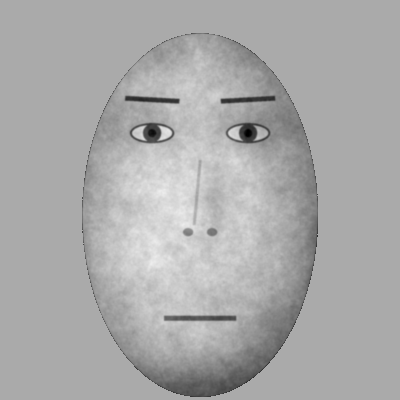
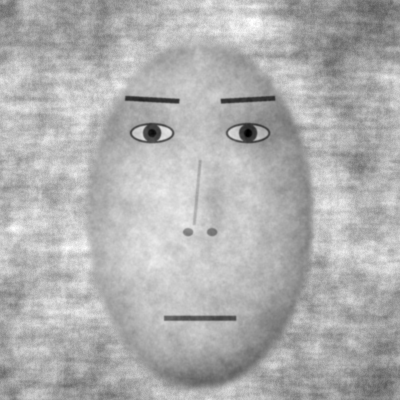
015_textured_examples_at_full_visibility.md

diff --git a/tests/core/textured-examples.test.ts b/tests/core/textured-examples.test.ts
@@ -1,0 +1,47 @@
+import { readFileSync } from 'node:fs';
+import { describe, expect, it } from 'vitest';
+import { buildSequence } from '../../src/core/build';
+import { Prng } from '../../src/core/prng';
+import { circularTarget, DEMO_PEAK, noisePhase, riseFrame } from '../../src/core/rise';
+import { spectrum } from '../../src/core/spectrum';
+import { mean, rms } from '../../src/core/stats';
+import { demoFaces } from '../helpers/images';
+
+const entries: { file: string }[] = JSON.parse(readFileSync(new URL('../../public/examples/manifest.json', import.meta.url), 'utf8'));
+const names = entries.map(e => e.file.replace(/\.png$/, ''));
+const size = 128;
+const images = demoFaces(names, size);
+const surround = (frame: Float64Array) => frame.filter((_, i) => i % size < 8 || i % size >= size - 8);
+
+describe('public face examples retain a textured surround at full visibility', () => {
+  it('reaches weight 1 and keeps texture in all 15 inputs and through the full slider range', () => {
+    expect(DEMO_PEAK).toBe(1);
+    const prng = new Prng(20191001);
+    for (const [index, image] of images.entries()) {
+      const { amplitude, phase } = spectrum(image, size, size);
+      const target = circularTarget(phase, noisePhase(prng.uniformArray(image.length), size, size), prng.uniformArray(image.length), size, size);
+      for (let step = 0; step <= 20; step++) {
+        const weight = step / 20;
+        const frame = riseFrame(amplitude, phase, target, weight, size, size);
+        expect(rms(surround(frame)), `${names[index]}, weight ${weight}`).toBeGreaterThan(0.02);
+        expect(mean(frame)).toBeCloseTo(mean(image), 10);
+        expect(rms(frame)).toBeCloseTo(rms(image), 10);
+        if (weight === 1) expect(Math.max(...frame.map((v, i) => Math.abs(v - image[i])))).toBeLessThan(1e-10);
+      }
+    }
+  });
+
+  it('retains surround texture at the full-restoration peak of every sequence image', () => {
+    const built = buildSequence({
+      images, size, method: 'circular', normalise: null, seed: 1, fixation: false,
+      params: { fps: 60, tagHz: 2, baselineS: 0, stimulusS: names.length / 2, postS: 0, cyclesPerImage: 1, peak: 1 },
+    });
+    const peaks = built.rows.filter(r => r.weight === 1);
+    expect(peaks.length).toBe(15);
+    for (const row of peaks) {
+      const pixels = built.frames.subarray(row.frame * size * size, (row.frame + 1) * size * size);
+      expect(rms(surround(Float64Array.from(pixels, v => v / 255)))).toBeGreaterThan(0.02);
+      expect(built.stats.similarity[row.frame]).toBeGreaterThan(0.99);
+    }
+  });
+});

diff --git a/index.html b/index.html
@@ -49,7 +49,7 @@
                   <button type="button" class="button" id="one-noise">New noise</button>
                   <span class="muted">Seed <code id="one-seed"></code></span>
                 </div>
-                <p class="muted small">Play cycles from noise to weight 0.85 and back, keeping scrambled texture around the face. Move the slider to 1 to inspect the fully restored source.</p>
+                <p class="muted small">Play cycles from noise to the full image (1) and back. The face examples include a textured noise surround, which remains visible at weight 1.</p>
                 <fieldset class="control choice">
                   <legend>Method</legend>
                   <label><input type="radio" name="one-method" value="circular" checked /> RISE</label>
@@ -82,7 +82,7 @@
           <div class="tab-panel" role="tabpanel" id="panel-sequence" aria-labelledby="tab-sequence" hidden>
             <p class="prose">
               A sequence shows each image emerging from noise and dissolving into it once per cycle, at a fixed rate,
-              between a stretch of noise before and after. The default keeps residual phase noise visible at the peak.
+              between a stretch of noise before and after. The face examples retain a noise surround even at full visibility.
               Whole-image statistics are held constant before 8-bit rounding and clipping.
             </p>
 
@@ -150,7 +150,7 @@
                   <label class="control"><span>Noise after (s) <span class="tag" data-tag="paper">paper</span></span>
                     <input type="number" name="postS" min="0" step="any" /><span class="hint" data-hint="post"></span></label>
                   <label class="control"><span>Peak weight (1 = the full image) <span class="tag" data-tag="project">this project</span></span>
-                    <input type="number" name="peak" min="0.05" max="1" step="0.05" /><span class="hint">0.85 keeps the background scrambled at maximum visibility; 1 restores the source background.</span></label>
+                    <input type="number" name="peak" min="0.05" max="1" step="0.05" /><span class="hint">1 reaches the prepared source. The face examples already include a noise surround.</span></label>
                   <label class="control"><span>Method <span class="tag" data-tag="project">this project</span></span>
                     <select name="method"><option value="circular">RISE</option><option value="sign">Sign rule</option></select></label>
                   <div class="control">

diff --git a/src/state.ts b/src/state.ts
@@ -72,7 +72,7 @@ export async function loadExamples(): Promise<void> {
   const manifest: ManifestEntry[] = await response.json();
   const names: Record<string, string> = { ida: 'Ida', ben: 'Ben', cas: 'Cas' };
   for (const entry of manifest) {
-    const url = `${BASE}examples/faces/${entry.file}`;
+    const url = `${BASE}examples/faces/${entry.file}?v=${__APP_VERSION__}`;
     items.push({
       id: entry.file.replace(/\.png$/, ''),
       label: entry.label,
@@ -172,9 +172,9 @@ export function loadSettings(): SequenceSettings {
     const raw = localStorage.getItem(STORAGE_KEY);
     if (raw) {
       const saved = JSON.parse(raw);
-      // Move the previous default to the textured demonstration once; keep
-      // custom partial peaks and subsequent deliberate choices of weight 1.
-      if (saved.defaultsVersion !== 2 && saved.peak === 1) saved.peak = DEMO_PEAK;
+      // Remove the previous release's default cap once. Other partial peaks
+      // and deliberate later choices remain user preferences.
+      if (saved.defaultsVersion !== 3 && saved.peak === 0.85) saved.peak = DEMO_PEAK;
       return { ...DEFAULT_SETTINGS, ...saved, ellipse: { ...DEFAULT_ELLIPSE, ...saved.ellipse } };
     }
   } catch {
@@ -185,7 +185,7 @@ export function loadSettings(): SequenceSettings {
 
 export function saveSettings(settings: SequenceSettings): void {
   try {
-    localStorage.setItem(STORAGE_KEY, JSON.stringify({ ...settings, defaultsVersion: 2 }));
+    localStorage.setItem(STORAGE_KEY, JSON.stringify({ ...settings, defaultsVersion: 3 }));
   } catch {
     // Preferences are a convenience; nothing depends on them being kept.
   }

diff --git a/tests/core/sequence.test.ts b/tests/core/sequence.test.ts
@@ -1,7 +1,7 @@
 import { describe, expect, it } from 'vitest';
 import { buildSequence, peakFrequency, type BuildOptions } from '../../src/core/build';
 import { uniformArrays } from '../../src/core/prng';
-import { DEMO_PEAK, meanAmplitude } from '../../src/core/rise';
+import { meanAmplitude } from '../../src/core/rise';
 import { renderSequence, uniformCount } from '../../src/core/sequence';
 import { spectrum } from '../../src/core/spectrum';
 import { correlation, mean, rms } from '../../src/core/stats';
@@ -119,7 +119,8 @@ describe('reproducibility', () => {
 });
 
 describe('residual-noise demonstration', () => {
-  const partial = { ...options, params: { ...options.params, peak: DEMO_PEAK } };
+  const peak = 0.85;
+  const partial = { ...options, params: { ...options.params, peak } };
 
   it('retains texture outside the face throughout every cycle and preserves global statistics', () => {
     const amp = meanAmplitude(images, SIZE, SIZE);
@@ -132,7 +133,7 @@ describe('residual-noise demonstration', () => {
       // Left and right strips lie outside all three synthetic face outlines.
       const outside = frame.filter((_, i) => i % SIZE < 8 || i % SIZE >= SIZE - 8);
       expect(rms(outside), `background at frame ${row.frame}`).toBeGreaterThan(0.01);
-      if (row.weight === DEMO_PEAK) {
+      if (row.weight === peak) {
         expect(correlation(frame, source)).toBeGreaterThan(0.5);
         expect(correlation(frame, source)).toBeLessThan(0.99);
         const measured = spectrum(frame, SIZE, SIZE).amplitude;

diff --git a/src/content/for-researchers.ts b/src/content/for-researchers.ts
@@ -17,7 +17,7 @@ export const inferredIntro =
 export const inferred = [
   '60 frames/s, inferred from the published clip’s frame sequence and the reported experimental rates;',
   'a raised-cosine envelope, consistent with the reported sinusoidal modulation but not a measured visibility function;',
-  'peak weight 0.85, chosen here to retain scrambled texture at maximum visibility; this is not an estimate of the paper’s peak weight;',
+  'peak weight 1, restoring the prepared source. The synthetic examples are embedded in a phase-noise surround before whole-image RISE, with a soft transition at the face boundary. This example preparation is a project adaptation, not a recovered step of the paper;',
   'one shared partially scrambled peak for both halves of a cycle, with different noise end-points before and after it. The two paths meet continuously, including when the peak is below 1.',
 ];
 
@@ -29,7 +29,7 @@ export const demoFigure = {
   width: 2000,
   height: 600,
   alt: 'Thirty frames of the default sequence in three rows: three faces, each emerging from noise and dissolving into it.',
-  caption: 'The first 1.5 s after the baseline (1.0–2.5 s), every third frame. The default peak weight of 0.85 leaves phase noise visible around each face even at the peak.',
+  caption: 'The first 1.5 s after the baseline (1.0–2.5 s), every third frame. Each face reaches full visibility at weight 1 while the prepared noise surround remains textured.',
 };
 
 export const publishedClip =

diff --git a/src/content/how-it-works.ts b/src/content/how-it-works.ts
@@ -3,7 +3,7 @@
 export const title = 'Faces from noise';
 
 export const intro = [
-  'A face that suddenly appears also introduces an abrupt visual change. To reduce this onset transient, the stimuli on this page gradually emerge from an already visible scrambled pattern and then dissolve back into it. The default demonstration retains some phase noise even when the face is most visible, so the surrounding pattern never becomes a flat grey field.',
+  'A face that suddenly appears also introduces an abrupt visual change. To reduce this onset transient, the stimuli on this page gradually emerge from an already visible scrambled pattern and then dissolve back into it. The example faces are prepared within a phase-noise surround, so restoring the face fully at weight 1 also restores the surrounding texture.',
   'Images are first converted to greyscale. In Sequence mode, their Fourier amplitude spectra are matched, controlling whole-image brightness, contrast and the distribution of coarse and fine structure. An algorithm then scrambles the phase, changing where that structure appears. A chessboard on a grey background loses its arrangement of squares when scrambled, while retaining its Fourier amplitude spectrum. This does not preserve its exact numbers of dark and light pixels.',
 ];
 

diff --git a/src/content/about.ts b/src/content/about.ts
@@ -5,7 +5,7 @@ export const paragraphs = [
   'The page makes frequency-tagged sequences of whole images. It does not make the compound stimulus of the paper, in which the eyes and the mouth of a face appeared in separate bands of the image.',
   'Everything happens in your browser. Your images are not uploaded, stored or sent anywhere.',
   'The example faces are synthetic: drawn by a program, not photographs of real people.',
-  'The tool draws on RISE (Sadr &amp; Sinha, 2004), spectrum matching in SHINE (Willenbockel et al., 2010), and shortest-path phase interpolation (Ales et al., 2012). The circular target and residual-noise peak are documented adaptations; see How it works.',
+  'The tool draws on RISE (Sadr &amp; Sinha, 2004), spectrum matching in SHINE (Willenbockel et al., 2010), and shortest-path phase interpolation (Ales et al., 2012). The circular target and preparation of the examples within a noise surround are documented adaptations; see How it works.',
 ];
 
 export const source = 'https://github.com/eelkedevries/eek-a-rise';

diff --git a/src/export/params.ts b/src/export/params.ts
@@ -52,7 +52,7 @@ export function parametersJson({ built, settings, imageNames, created }: ExportI
     sampled_peak_weight: sampledPeak,
     weight: 'peak * (0.5 - 0.5 * cos(2 * pi * p / period)), p = frame within the cycle',
     phase_path: 'one shared peak phase, made at peak_weight on the source-to-onset-noise path; both halves interpolate between this peak and their noise endpoint at weight / peak_weight',
-    peak_provenance: 'project parameter; 0.85 retains residual phase noise in the demonstration, not an estimate of the published stimulus',
+    peak_provenance: 'project parameter; 1 restores the prepared source, including the noise surround in the synthetic face examples; not an estimate of the published stimulus',
     image_size_px: settings.size,
     outline_ellipse: settings.outline ? { ...settings.ellipse, units: 'fractions of the image size' } : null,
     spectrum_matching: 'every image gets the set-average amplitude spectrum and keeps its own phase',

diff --git a/src/core/rise.ts b/src/core/rise.ts
@@ -7,8 +7,8 @@ import { antisymmetric, fromSpectrum, layout, spectrum } from './spectrum';
 
 const TWO_PI = 2 * Math.PI;
 
-/** Demonstration choice: retain phase noise even at maximum visibility. Not a published estimate. */
-export const DEMO_PEAK = 0.85;
+/** Reach the prepared source; the face examples already contain a noise surround. */
+export const DEMO_PEAK = 1;
 
 /** Angle in [-pi, pi), written with floor so that every IEEE implementation agrees bit for bit. */
 export function wrap(x: number): number {

diff --git a/tools/reference/make_textured_examples.py b/tools/reference/make_textured_examples.py
@@ -1,0 +1,49 @@
+"""Prepare synthetic demo faces on a phase-noise surround, before RISE.
+
+The raw mean-grey faces remain in demo-faces/ for reference. This example
+preparation is an illustrative adaptation, not a recovered step of the study.
+Usage: python tools/reference/make_textured_examples.py
+"""
+import json
+from pathlib import Path
+
+import numpy as np
+from PIL import Image
+
+import rise_reference as rr
+
+HERE = Path(__file__).parent
+ROOT = HERE.parent.parent
+
+
+def main():
+    entries = json.loads((ROOT / "public/examples/manifest.json").read_text())
+    raw = [np.asarray(Image.open(HERE / "demo-faces" / e["file"]), float) / 255 for e in entries]
+    _, amplitude = rr.spec_match(raw)
+    noise = rr.from_spectrum(amplitude, rr.noise_phase(np.random.default_rng(20191001).random(raw[0].shape)))
+    noise = (noise - noise.mean()) / noise.std()
+    target = ROOT / "public/examples/faces"
+    target.mkdir(parents=True, exist_ok=True)
+    radii = {"ida": 130, "ben": 118, "cas": 112}
+    y, x = np.indices(raw[0].shape)
+    minimum = float("inf")
+    for entry, image in zip(entries, raw):
+        r = np.sqrt(((x - 200) / radii[entry["identity"]]) ** 2 + ((y - 215) / 182) ** 2)
+        # Feather inward over the outer 10% of the ellipse. The mean-grey raw
+        # surround never enters the prepared image; there is no hard oval edge.
+        t = np.clip((1 - r) / 0.1, 0, 1)
+        alpha = 0.5 - 0.5 * np.cos(np.pi * t)
+        # Share the same noise pattern across expressions, avoiding a separate
+        # expression-specific surround. Each raw face supplies its mean and SD.
+        background = image[r < 0.9].mean() + image.std() * noise
+        prepared = alpha * image + (1 - alpha) * background
+        pixels = np.floor(np.clip(prepared, 0, 1) * 255 + 0.5).astype(np.uint8)
+        Image.fromarray(pixels).save(target / entry["file"])
+        outside = pixels[r >= 1].astype(float) / 255
+        minimum = min(minimum, float(outside.std()))
+        assert outside.std() > 0.02, entry["file"]
+    print(json.dumps({"examples": len(entries), "minimum_surround_sd": minimum, "noise_seed": 20191001}))
+
+
+if __name__ == "__main__":
+    main()

diff --git a/tools/reference/make_assets.py b/tools/reference/make_assets.py
@@ -14,7 +14,6 @@ from pathlib import Path
 import numpy as np
 from PIL import Image, ImageDraw, ImageFont
 from scipy import ndimage, stats
-from skimage import data
 
 import rise_reference as rr
 
@@ -135,6 +134,7 @@ def scramble(img, rng):
 
 
 def figures():
+    from skimage import data
     rng = np.random.default_rng(7)
     # RISE on a photograph: Sadr & Sinha target (top) against plain interpolation (bottom)
     img = rr.to_grey_square(data.chelsea())
@@ -230,7 +230,8 @@ def corner_z(frames):
 
 def sequence_and_checks():
     """The page's default: the nine eye images of the demo trial as whole faces, 2 Hz, one image per cycle."""
-    images = [draw_face(IDENTITIES[i], eyes=e) for i in range(3) for e in EYES[i]]
+    images = [np.asarray(Image.open(HERE.parent.parent / "public/examples/faces" / f"{IDENTITIES[i]['name']}_eyes_{e}.png"), float) / 255
+              for i in range(3) for e in EYES[i]]
     seq = rr.Sequence(images)
     fr = seq.render(np.random.default_rng(3).random)
     sign = rr.Sequence(images, method="sign").render(np.random.default_rng(3).random)
@@ -278,7 +279,9 @@ def sequence_and_checks():
 if __name__ == "__main__":
     for p in (FACES, OUT, FIG):
         p.mkdir(parents=True, exist_ok=True)
-    rep = {"similarity_to_source_by_weight": figures(), "demo_trial": trial_and_checks(),
-           "demo_sequence": sequence_and_checks()}
+    rep = {"similarity_to_source_by_weight": figures(), "demo_trial": trial_and_checks()}
+    from make_textured_examples import main as make_textured_examples
+    make_textured_examples()
+    rep["demo_sequence"] = sequence_and_checks()
     (OUT / "verification.json").write_text(json.dumps(rep, indent=2))
     print(json.dumps(rep, indent=2))

diff --git a/tools/reference/audit_demo.py b/tools/reference/audit_demo.py
@@ -1,4 +1,4 @@
-"""Measure the residual-noise demo and regenerate its explanatory figure.
+"""Measure the textured-surround demo and regenerate its explanatory figure.
 
 Uses the committed, quantised demo images, NumPy FFTs and the Python reference.
 Writes only to the ignored out/ directory; copy the figure after reviewing it.
@@ -19,7 +19,7 @@ OUT = HERE / "out"
 
 def main():
     entries = json.loads((ROOT / "public/examples/manifest.json").read_text())
-    images = [np.asarray(Image.open(HERE / "demo-faces" / e["file"]), float) / 255
+    images = [np.asarray(Image.open(ROOT / "public/examples/faces" / e["file"]), float) / 255
               for e in entries if e["band"] == "eyes"]
     sequence = rr.Sequence(images, peak=rr.DEMO_PEAK)
     frames = sequence.render(np.random.default_rng(1).random)
@@ -48,7 +48,7 @@ def main():
     }
     assert max(spectra) < 1e-9
     assert report["background_min_sd"] > 0.01
-    assert min(peak_sim) > 0.5 and max(peak_sim) < 0.99
+    assert min(peak_sim) > 0.99
     assert np.ptp(means) < 1e-10 and np.ptp(sds) < 1e-10
     OUT.mkdir(exist_ok=True)
     sheet = Image.new("RGB", (2000, 600), "white")
